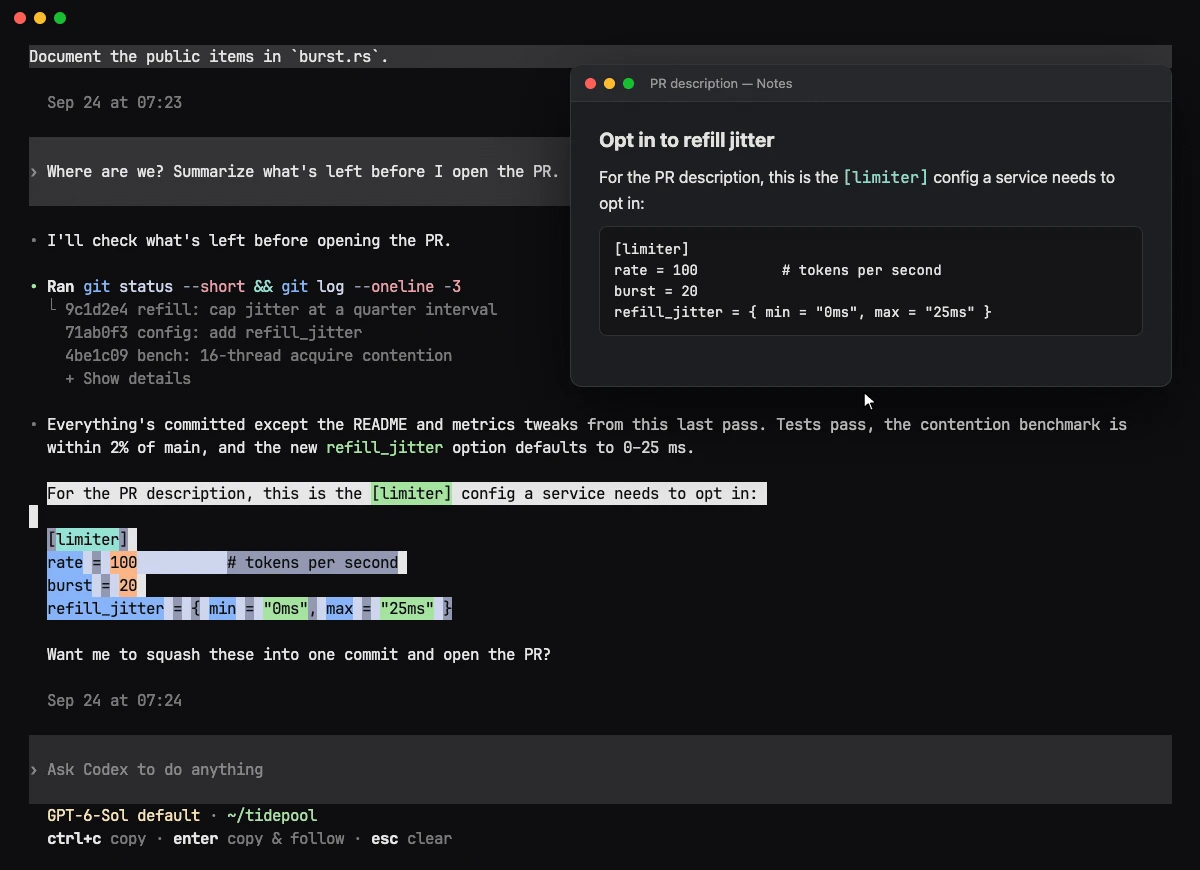
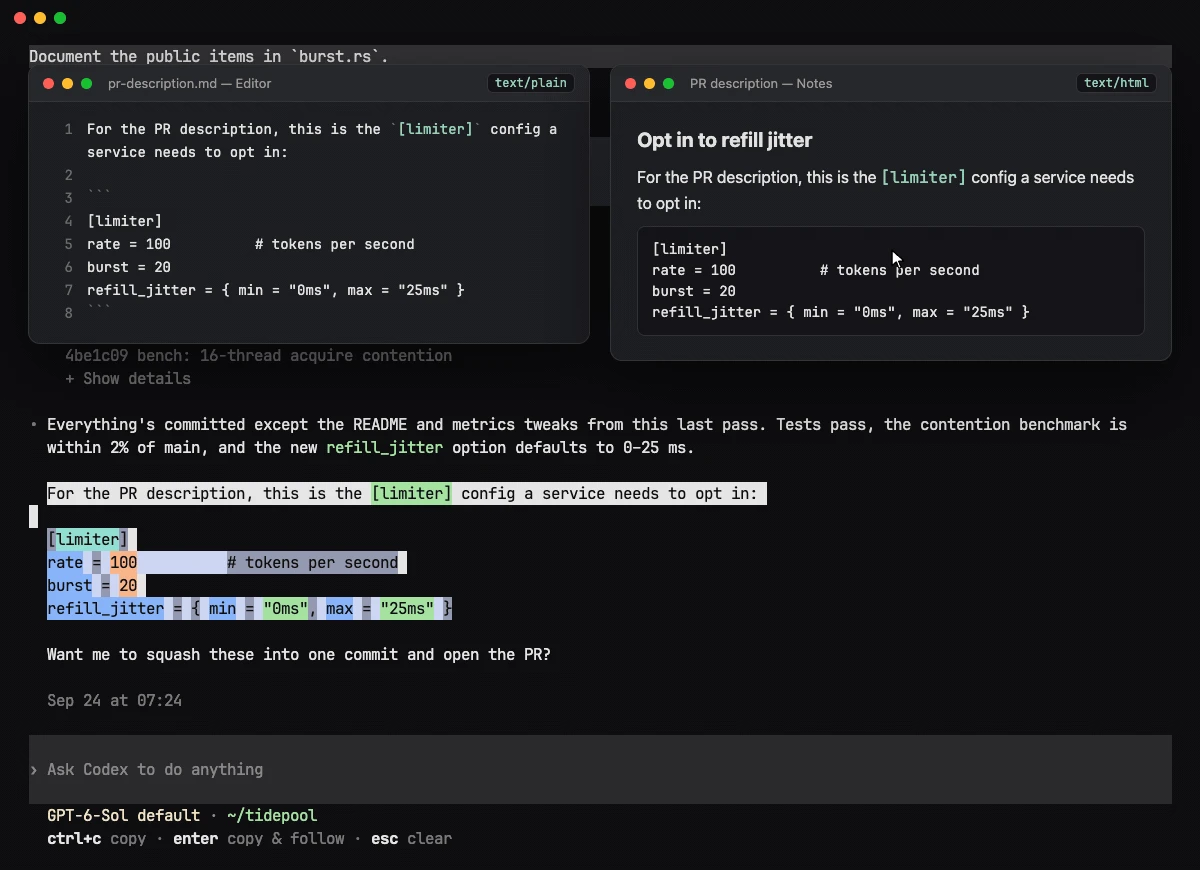
blog: fold both pastes into the end of the copy GIF
- The copy GIF now ends by pasting the real clipboard twice over the
  terminal: text/plain Markdown into an editor, then text/html into notes
- Drop the separate paste-both GIF, its scene and recorder
- Update the copy GIF caption and alt text, README, and verify's GIF count

diff --git a/new_post_preview.html b/new_post_preview.html
@@ -88,11 +88,8 @@ aside{display:none}
 <p>In fullscreen, Codex handles text selection itself, and that changes a habit you probably use dozens of times a day.</p>
 <p>There&#39;s a bright side to Codex owning the selection. Your terminal only sees characters on a screen, but Codex knows what they are: a paragraph, a list, a code block. So when your selection includes prose, Codex puts two versions on your local clipboard: the raw Markdown as plain text, and the same content as formatted HTML. Paste into your editor, a terminal or a Markdown field and you get the Markdown, with backticks and code fences intact. Paste into a doc, an email or a chat app and you get real paragraphs, inline code and code blocks.</p>
 <figure class="gif"><a href="new_post_assets/openai-blog/copy.gif" aria-label="Open full size animation">
-    <picture><source media="(prefers-reduced-motion: reduce)" srcset="new_post_assets/openai-blog/copy-poster.webp"><img loading="lazy" decoding="async" src="new_post_assets/openai-blog/copy.gif" alt="Dragging across a reply and its code block in Codex. &quot;Copied 187 chars to host clipboard&quot; appears above the composer, and pasting into a notes app keeps the paragraph, the inline code and the code block."></picture></a>
-    <figcaption>Copy-on-select in an example session, then pasting into a notes app.</figcaption></figure>
-<figure class="gif"><a href="new_post_assets/openai-blog/paste-both.gif" aria-label="Open full size animation">
-    <picture><source media="(prefers-reduced-motion: reduce)" srcset="new_post_assets/openai-blog/paste-both-poster.webp"><img loading="lazy" decoding="async" src="new_post_assets/openai-blog/paste-both.gif" alt="The clipboard from that copy, pasted into two apps. A plain-text editor shows the raw Markdown with backticks and code fences; a notes app shows a formatted paragraph, inline code and a code block."></picture></a>
-    <figcaption>One copy, pasted twice: a Markdown editor gets the Markdown, and a notes app gets the formatting.</figcaption></figure>
+    <picture><source media="(prefers-reduced-motion: reduce)" srcset="new_post_assets/openai-blog/copy-poster.webp"><img loading="lazy" decoding="async" src="new_post_assets/openai-blog/copy.gif" alt="Dragging across a reply and its code block in Codex. &quot;Copied 187 chars to host clipboard&quot; appears above the composer. The same copy is then pasted twice: a plain-text editor gets the raw Markdown with backticks and code fences, and a notes app gets a formatted paragraph, inline code and a code block."></picture></a>
+    <figcaption>Copy-on-select in an example session, then one copy pasted twice: a Markdown editor gets the Markdown, and a notes app gets the formatting.</figcaption></figure>
 <p><strong>In Ghostty 1.2+, kitty on macOS, Windows Terminal and VS Code on Windows, your usual copy shortcut keeps working.</strong> Most other terminals, including Terminal.app and iTerm2, keep that shortcut for themselves. For those, Codex copies the moment you finish selecting, so you don&#39;t need a shortcut. The same goes for anything inside tmux or Zellij.</p>
 <p>Those are the defaults when Codex can tell which terminal you&#39;re in. Ghostty needs to report its version, and custom keybindings or remote sessions can change which keys reach Codex. If you&#39;d rather choose for yourself, set <code>copy_on_select</code> in the <code>[tui]</code> section of your config to <code>auto</code> (the default), <code>always</code> or <code>never</code>.</p>
 <p>A code-only selection copies as plain text, and over SSH the copy travels through your terminal, so you get the Markdown. And if you ever need your terminal&#39;s own selection, use its selection override while you drag; the modifier key varies from terminal to terminal.</p>

diff --git a/new_post.md b/new_post.md
@@ -54,13 +54,9 @@ In fullscreen, Codex handles text selection itself, and that changes a habit you
 
 There's a bright side to Codex owning the selection. Your terminal only sees characters on a screen, but Codex knows what they are: a paragraph, a list, a code block. So when your selection includes prose, Codex puts two versions on your local clipboard: the raw Markdown as plain text, and the same content as formatted HTML. Paste into your editor, a terminal or a Markdown field and you get the Markdown, with backticks and code fences intact. Paste into a doc, an email or a chat app and you get real paragraphs, inline code and code blocks.
 
-![Dragging across a reply and its code block in Codex. "Copied 187 chars to host clipboard" appears above the composer, and pasting into a notes app keeps the paragraph, the inline code and the code block.](new_post_assets/openai-blog/copy.gif)
+![Dragging across a reply and its code block in Codex. "Copied 187 chars to host clipboard" appears above the composer. The same copy is then pasted twice: a plain-text editor gets the raw Markdown with backticks and code fences, and a notes app gets a formatted paragraph, inline code and a code block.](new_post_assets/openai-blog/copy.gif)
 
-*Copy-on-select in an example session, then pasting into a notes app.*
-
-![The clipboard from that copy, pasted into two apps. A plain-text editor shows the raw Markdown with backticks and code fences; a notes app shows a formatted paragraph, inline code and a code block.](new_post_assets/openai-blog/paste-both.gif)
-
-*One copy, pasted twice: a Markdown editor gets the Markdown, and a notes app gets the formatting.*
+*Copy-on-select in an example session, then one copy pasted twice: a Markdown editor gets the Markdown, and a notes app gets the formatting.*
 
 **In Ghostty 1.2+, kitty on macOS, Windows Terminal and VS Code on Windows, your usual copy shortcut keeps working.** Most other terminals, including Terminal.app and iTerm2, keep that shortcut for themselves. For those, Codex copies the moment you finish selecting, so you don't need a shortcut. The same goes for anything inside tmux or Zellij.
 

diff --git a/new_post_assets/README.md b/new_post_assets/README.md
@@ -120,14 +120,11 @@ export DEMO_ROOT=$(SCENARIO_NAME=hero ./setup_demo.sh) && vhs hero.tape         
 export DEMO_ROOT=$(SCENARIO_NAME=copy ./setup_demo.sh) && node record_copy.mjs   # out/copy.gif
 gifsicle -O3 --lossy=40 --colors 128 out/hero.gif -o ../openai-blog/hero.gif
 gifsicle -O3 --lossy=40 --colors 128 out/copy.gif -o ../openai-blog/copy.gif
-node record_paste.mjs                                                            # out/paste-both.gif
-gifsicle -O3 --lossy=40 --colors 128 out/paste-both.gif -o ../openai-blog/paste-both.gif
 ```
 
-paste-both.gif needs no Codex: paste-both.html holds the exact text/plain and text/html
-the copy recording put on the clipboard (out/copy-clipboard.{txt,html}) and plays the two
-pastes. Open it in a browser to preview; add ?final for the end state. Update it by hand if
-the copy recording's content changes.
+The copy GIF ends by pasting what Codex put on the clipboard twice: the text/plain
+Markdown into an editor window, then the text/html into a notes window, both
+overlaid on the terminal.
 
 Then refresh the posters (a frame through `cwebp -q 90`), update the version and
 frame count in hero.json and copy.json, rebuild the figures (fig1 takes its frame
